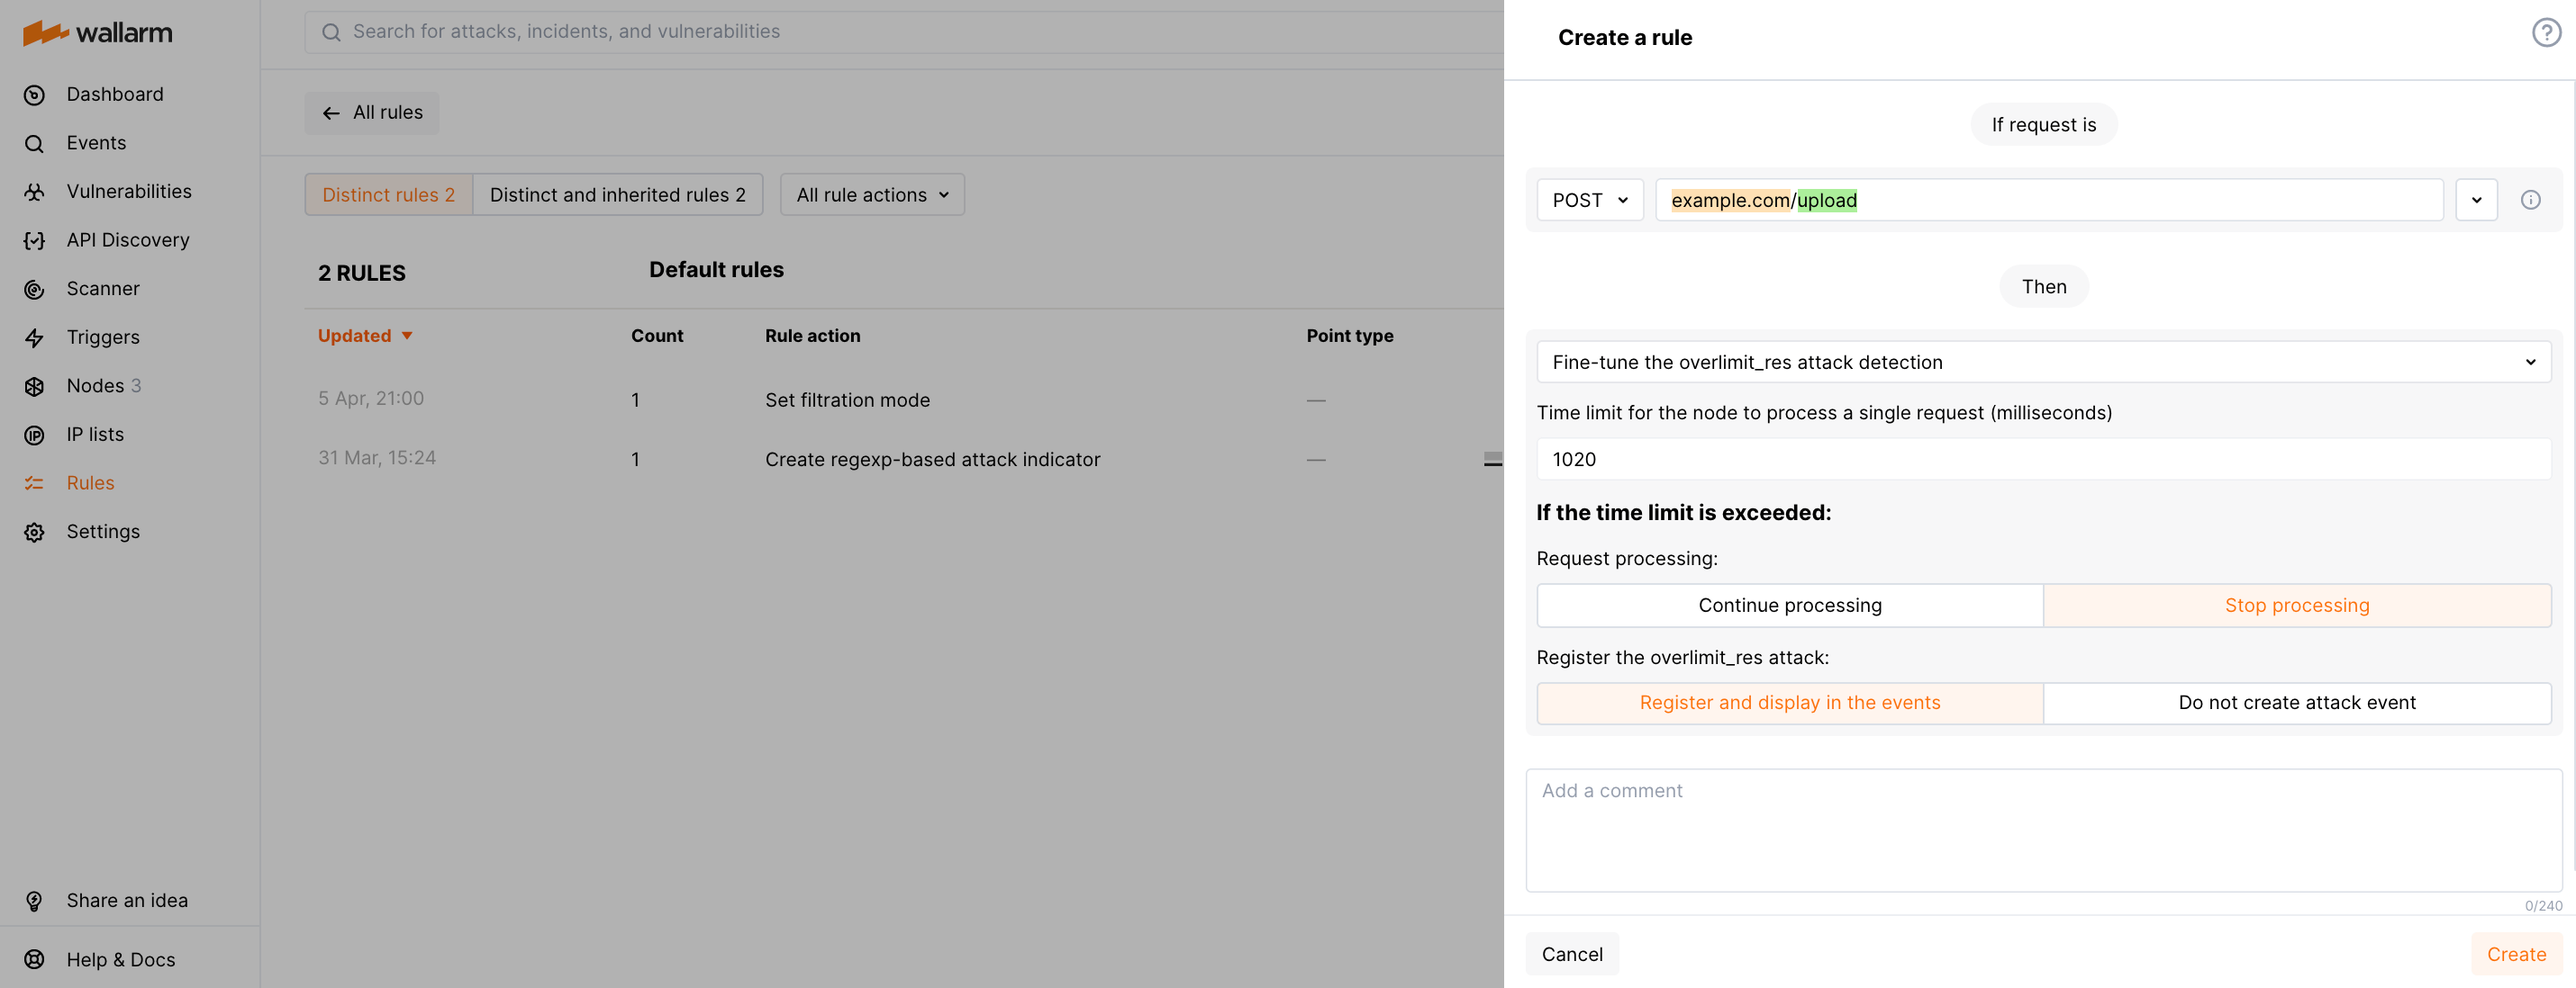
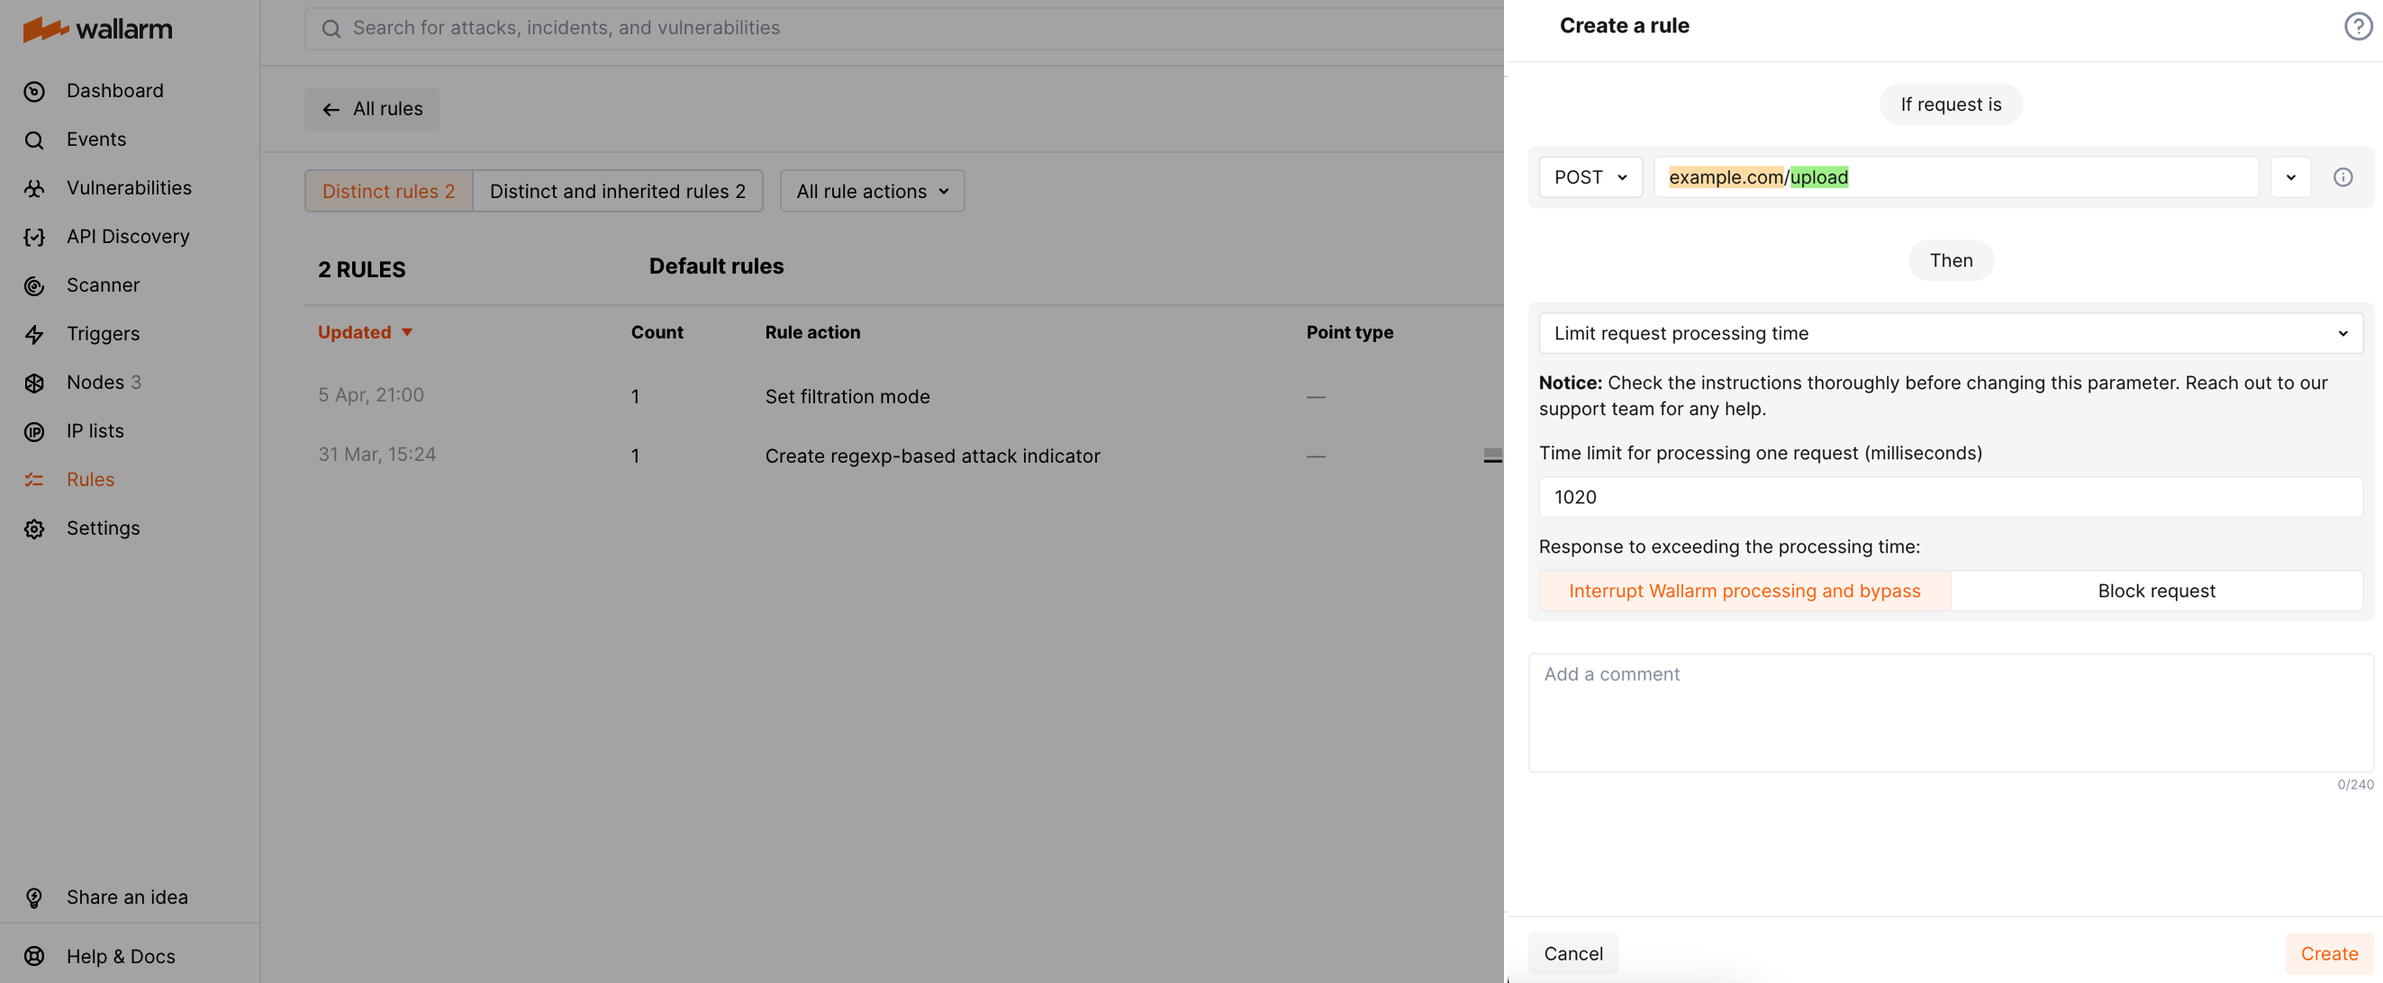
DOCS-2590 Overlimit-res update

diff --git a/docs/latest/user-guides/rules/configure-overlimit-res-detection.md b/docs/latest/user-guides/rules/configure-overlimit-res-detection.md
@@ -1,57 +1,60 @@
-# The `overlimit_res` attack detection fine‑tuning
+# Limiting Request Processing Time
 
-The Wallarm node spends limited time on a single incoming request processing and if the time limit is exceeded, marks the request as the [resource overlimiting (`overlimit_res`)](../../attacks-vulns-list.md#resource-overlimit) attack. The **Fine-tune the overlimit_res attack detection** rule enables you to customize the time limit allocated for a single request processing and default node behavior when the limit is exceeded.
+The Wallarm node spends limited time on a single incoming request processing and if the time limit is exceeded, marks the request as the [resource overlimit (`overlimit_res`)](../../attacks-vulns-list.md#resource-overlimit) attack. You can customize the time limit allocated for a single request processing and node behavior when the limit is exceeded.
 
 Limiting the request processing time prevents the bypass attacks aimed at the Wallarm nodes. In some cases, the requests marked as `overlimit_res` can indicate insufficient resources allocated for the Wallarm node modules resulting in long request processing.
 
-## Default node behavior
+## General configuration
 
-The Wallarm node is configured to spend no more than **1,000 milliseconds** on a single incoming request processing by default.
+In Wallarm Console → **Settings** → **General** → **Limit request processing time**, you can check the general configuration for request processing time limit. This configuration affects all endpoints unless overridden by [specific endpoint configuration](#specific-endpoint-configuration).
 
-If the time limit is exceeded, the Wallarm node:
+By default, this is: 
 
-1. Stops request processing.
-1. Marks the request as the `overlimit_res` attack and uploads attack details to the Wallarm Cloud.
+* **1,000 milliseconds** on a single incoming request processing.
+* Response to exceeding is **Interrupt Wallarm processing and bypass** which means Wallarm: 
 
-    If the processed request part also contains other [attack types](../../attacks-vulns-list.md), the Wallarm node uploads details on them to the Cloud as well.
+    * Stops request processing.
+    * Marks the request as the `overlimit_res` attack and displays it in **Attacks**. If the processed request part contains other [attack types](../../attacks-vulns-list.md), the attacks of the corresponding types will be displayed as well.
+    * Allows original request to reach the application (protection bypass). Note that the application has the risk to be exploited by the attacks included in both processed and unprocessed request parts.
 
-    Attacks of the corresponding types will be displayed in the [event list](../events/check-attack.md) in Wallarm Console.
-1. <a name="request-blocking"></a>In the **monitoring** [mode](../../admin-en/configure-wallarm-mode.md), the node forwards the original request to the application address. The application has the risk to be exploited by the attacks included in both processed and unprocessed request parts.
+![Limit request processing time - General configuration](../../images/user-guides/rules/fine-tune-overlimit-detection-generic.png)
 
-    In the **safe blocking** mode, the node blocks the request if it originates from the [graylisted](../ip-lists/overview.md) IP address. Otherwise, the node forwards the original request to the application address. The application has the risk to be exploited by the attacks included in both processed and unprocessed request parts.
-
-    In the **block** mode, the node blocks the request.
-
-!!! info "Request processing in the "Disabled" mode"
-    In the **disabled** [mode](../../admin-en/configure-wallarm-mode.md), the node does not analyze incoming traffic and, consequently, does not catch the attacks aimed at resource overlimiting.
-
-## Changing the default node behavior
+You can change the general configuration by adjusting time limit.
 
 !!! warning "Risk of protection bypass or running out of system memory"
-    * It is recommended to change the default node behavior only in the strictly specific locations where it is really necessary, e.g. where the upload of the large files is performed, and where there is no risk of protection bypass and vulnerability exploit.
-    * The high time limit and/or continuation of request processing after the limit is exceeded can trigger memory exhaustion or out-of-time request processing.
+    * It is recommended to change the default node behavior only in the strictly [specific locations](#specific-endpoint-configuration) where it is really necessary, e.g. where the upload of the large files is performed, and where there is no risk of protection bypass and vulnerability exploit.
+    * The high time limit can trigger memory exhaustion.
 
-The **Fine-tune the overlimit_res attack detection** rule enables you to change the default node behavior as follows:
+You can also change response to **Block request**  which means Wallarm: 
+
+* Stops request processing.
+* Marks the request as the `overlimit_res` attack and displays it in **Attacks**. If the processed request part contains other [attack types](../../attacks-vulns-list.md), the attacks of the corresponding types will be displayed as well.
+* Blocks request. Note that the legitimate requests have the risk to be blocked.
+
+!!! info "Filtration mode required for blocking"
+    Note that blocking will only work when the node is in the **blocking** filtration [mode](../../admin-en/configure-wallarm-mode.md) or **safe blocking** for the requests originating from the [graylisted](../ip-lists/overview.md) IP addresses.
+
+## Specific endpoint configuration
+
+The **Limit request processing time** [rule](../../user-guides/rules/rules.md) enables you to override the [general](#general-configuration) or parent configuration by setting it different for specific endpoint. You can:
 
 * Set custom limit on a single request processing
-* Stop or continue the request processing when the time limit is exceeded
+* Change system response (descriptions of each are [above](#general-configuration))
 
-    If the node continues request processing after the time limit has been exceeded, it uploads data on detected attacks to the Cloud only after the request processing is fully completed.
+To create a rule: 
 
-    If the rule is set to stop processing, the node stops the request processing once the time limit is exceeded. It then forwards the request unless it is set to record an attack and is in blocking mode. In that case, the node blocks the request and logs the `overlimit_res` attack.
-* Register the `overlimit_res` attack when the request processing time limit is exceeded or not
+To set specific endpoint configuration for request processing time limit:
 
-    If the node is configured to register the attack, it either [blocks the request or forwards it to the application address](#request-blocking) depending on the filtration mode.
-
-    If the node is not configured to register the attack and the request does not contain other attack types, the node forwards the original request to the application address. If the request contains other attack types, the node either blocks the request or forwards it to the application address depending on the filtration mode
-
-The rule DOES NOT allow to:
-
-* Set the blocking mode for the `overlimit_res` attacks separately from other configurations. If the **Register and display in the events** option is chosen, the node either blocks the `overlimit_res` attack or forwards it to the application address depending on the [filtration mode](../../admin-en/configure-wallarm-mode.md) set for the corresponding endpoint.
+--8<-- "../include/rule-creation-initial-step.md"
+1. In **If request is**, [describe](rules.md#configuring) the scope to apply the rule to.
+1. In **Then**, choose **Limit request processing time** and set parameters.
 
 ## Rule example
 
-* The rule increases the time limit for processing each POST request to `https://example.com/upload` up to 1,020 milliseconds. The specified endpoint performs large file uploading.
-* Other parameters of the node behavior remain default - if the node processes the request longer than 1,020 milliseconds, it stops the request processing and registers the `overlimit_res` attack.
+Let us say the general configuration is **1,000 milliseconds** and **Block request** response (and the node is in the `blocking` mode), and you have many `overlimit_res` attacks for the `https://example.com/upload`. The investigation shows that the endpoint is used for the large file uploading and the legitimate requests are actually being blocked because of exceeding the processing time.
+
+To provide normal endpoint functioning, for it specifically, we need to increase the time for request processing. Moreover, we want just notification (not blocking) for the cases when the limit is exceeded.
+
+To do so, set the **Limit request processing time** rule as displayed on the screenshot.
 
 ![The "Register and display in the events" rule example](../../images/user-guides/rules/fine-tune-overlimit-detection-example.png)

diff --git a/docs/latest/updating-migrating/what-is-new.md b/docs/latest/updating-migrating/what-is-new.md
@@ -26,6 +26,14 @@ API Discovery detects and highlights sensitive data consumed and carried by your
 
 Patterns are used to define which sensitive data is detected and how. To modify default patterns and add your own, in Wallarm Console go to **API Discovery** → **Configure API Discovery** → **Sensitive data**.
 
+## New in limiting request processing time (node 5.1.0 and higher)
+
+Wallarm [limits the request processing](../user-guides/rules/configure-overlimit-res-detection.md) time to avoid running out of system memory which can lead to the node being down to leave your applications unprotected. Now the transparency of this mechanism is increased:
+
+* All the cases of exceeding the limit are registered and immediately displayed in **Attacks** as `overlimit_res` events - you can easily locate and analyze them.
+* Configuring of system behavior is easier now - general configuration is displayed in **Settings** → **General** and can be modified there.
+* The **Limit request processing time** (former **Fine-tune the overlimit_res attack detection**) rule is simplified to set different configurations for specific endpoints.
+
 ## Further feature introduction
 
 Starting with release 5.2, new features will be introduced exclusively in the node with the new Go-based implementation. Per our [versioning policy](node-artifact-versions.md), these new features will not be backported to the previous version (4.10).
